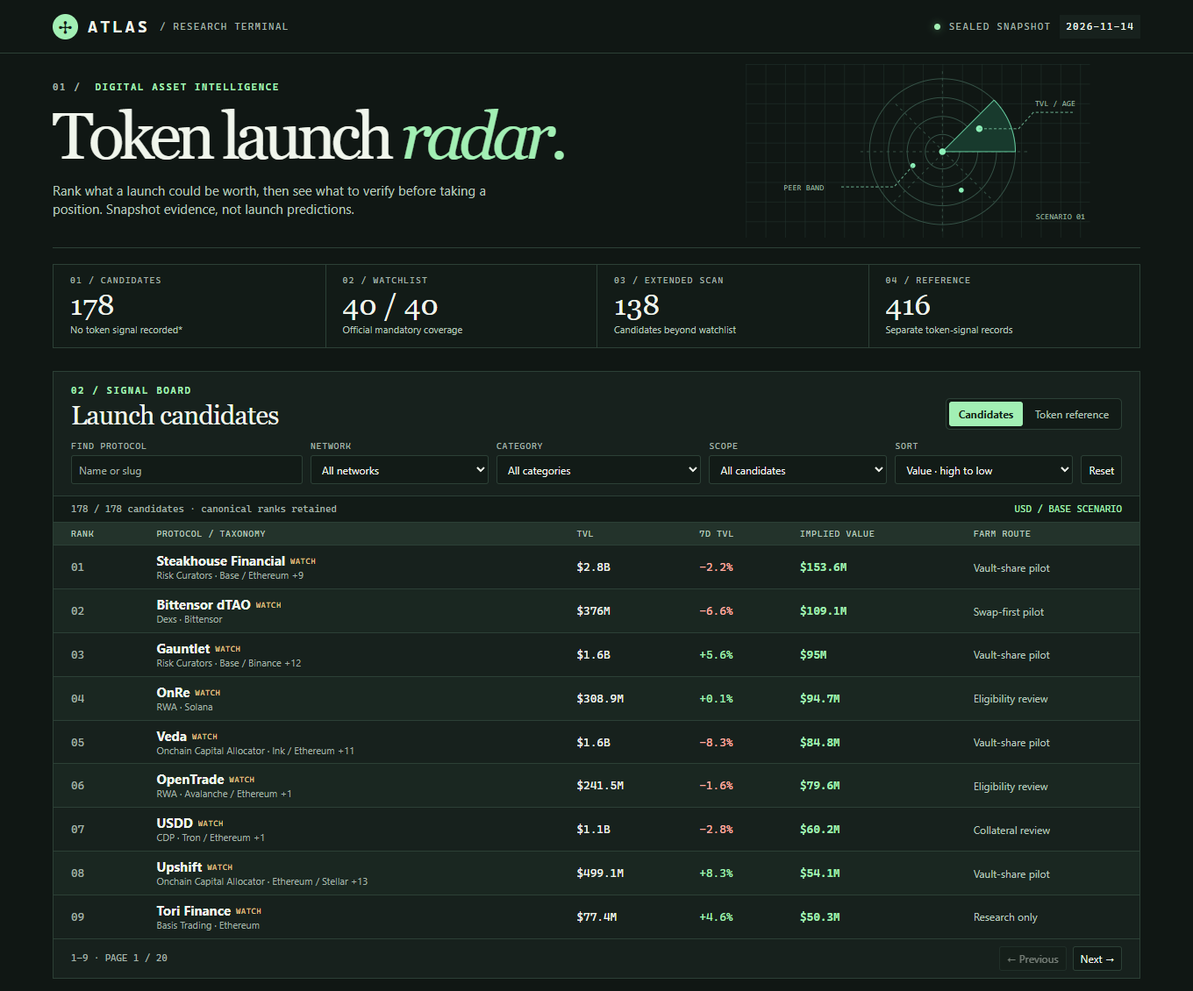
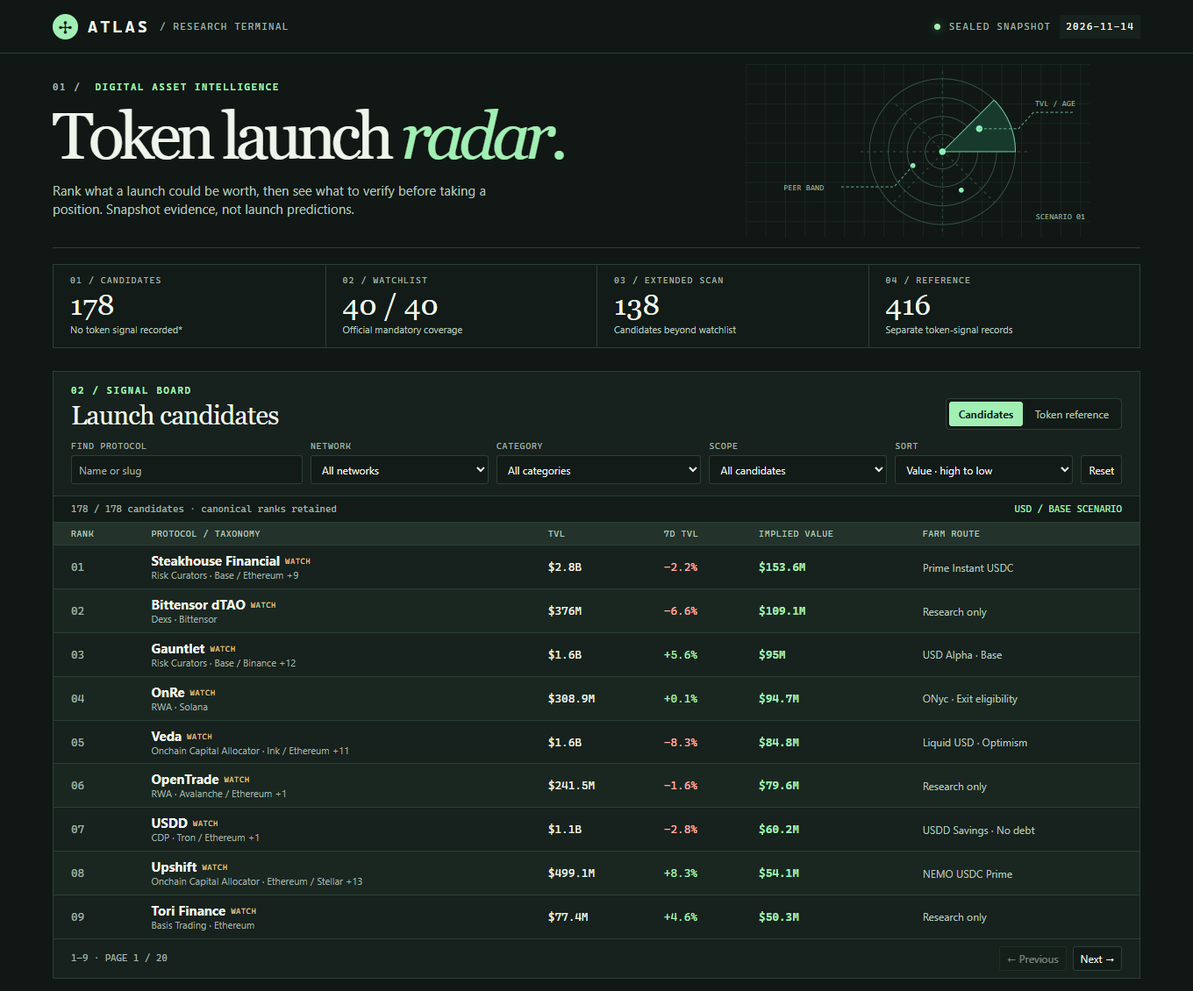
IMP token-radar-01
Archive improved farming routes and valuation details

diff --git a/token-radar-01/lib/farm.ts b/token-radar-01/lib/farm.ts
@@ -1,39 +1,41 @@
-type Route = Readonly<{ label: string; action: string; exit: string; days: string; cap: string }>;
+import { documentedRoutes, type DocumentedRoute } from './routes.ts';
+
+type Route = Readonly<{ label: string; action: string; exit: string }>;
 
 const lending: Route = {
-  label: 'Supply-only pilot', cap: '$10–25', days: '2–7 days',
-  action: 'Choose a documented single-asset supply market. Check utilization, oracle, and pause controls. Supply only; do not borrow or enable collateral.',
-  exit: 'Check available liquidity and withdraw. If utilization or withdrawal latency rises, do not add funds.',
+  label: 'Supply-only review',
+  action: 'Identify the documented single-asset market, oracle, utilization and pause controls. Preview supply without borrowing or enabling collateral.',
+  exit: 'Confirm that the documented pool would allow full withdrawal at current idle liquidity and list any conditions that block it.',
 };
 const vault: Route = {
-  label: 'Vault-share pilot', cap: '$10–25', days: '3–7 days',
-  action: 'Find a documented public vault for an asset you already hold. Check allocator/curator access, share pricing, caps, fees, and underlying strategies before minting a small share position.',
-  exit: 'Try redeeming shares at the next permitted window; stop if liquidity, share pricing or redemption timing diverges from the published terms.',
+  label: 'Vault-share review',
+  action: 'Confirm whether a documented public vault exists. Compare share pricing, allocations, fee disclosures and the underlying asset.',
+  exit: 'Compare the full-redemption preview with share value and note any queues, cooldowns, fees or unavailable routes.',
 };
 const swap: Route = {
-  label: 'Swap-first pilot', cap: '$5–15', days: '1–3 days',
-  action: 'Compare a small spot swap against an independent quote. Check slippage and the token mint on both sides; make one useful swap only. Add no liquidity unless documented eligibility and impermanent-loss exposure have been assessed.',
-  exit: 'Compare realized price and fees with the quote; avoid repeat volume and do not leave unwanted inventory.',
+  label: 'Spot and liquidity review',
+  action: 'Confirm whether the official venue supports a spot quote, and verify both asset IDs. Compare price impact and fees for the intended size; do not execute.',
+  exit: 'Preview the reverse quote and record total fees and price impact. For an LP route, additionally check the rule for removing liquidity.',
 };
 const debt: Route = {
-  label: 'Collateral review', cap: '$0', days: 'No hold',
-  action: 'Research only: compare the collateral list, oracle, peg history and liquidation ratio. Model a 30% collateral drawdown before considering any position; do not open debt to farm.',
-  exit: 'Save the official eligibility and redemption references if available; otherwise mark the route unverified and move on.',
+  label: 'Collateral review',
+  action: 'Compare the collateral list, oracle, peg history and liquidation ratio. Model a 30% collateral drawdown without opening debt.',
+  exit: 'Find the official debt repayment and collateral release path. Record when it can fail; do not fund it.',
 };
 const restake: Route = {
-  label: 'Exit and slashing review', cap: '$0', days: 'No hold',
-  action: 'Research only: verify the security module, slashable conditions, withdrawal queue and custody. Do not move staked assets for an unconfirmed program.',
-  exit: 'Archive the published unbonding and slashing terms before revisiting; no deposit is needed for the audit.',
+  label: 'Slashing review',
+  action: 'Verify the security module, slashable conditions, custody and the withdrawal queue; do not move staked assets.',
+  exit: 'Archive the documented unbonding and slashing terms before revisiting.',
 };
 const rwa: Route = {
-  label: 'Eligibility review', cap: '$0', days: 'No hold',
-  action: 'Research only: check jurisdiction, allowlist, issuer, minimums and redemption windows from official disclosures. Do not upload identity documents or transact solely for speculative rewards.',
-  exit: 'Record who can redeem and when, including fees and notice periods; stop if those terms cannot be verified.',
+  label: 'Eligibility review',
+  action: 'Check jurisdiction, allowlist, issuer, minimums and redemption windows. Do not upload identity documents during the comparison.',
+  exit: 'Record who may redeem, in what asset, with which fees and notice periods.',
 };
 const defaultRoute: Route = {
-  label: 'Research only', cap: '$0', days: 'No hold',
-  action: 'Research only: identify the protocol’s actual user action from its official product and governance pages. The snapshot alone cannot establish a safe or eligible transaction.',
-  exit: 'Set a reminder to recheck official documentation or governance. Stop if only third-party reward claims exist.',
+  label: 'Product review',
+  action: 'Identify the actual user action in the project’s product and governance docs; the snapshot cannot establish an eligible interaction.',
+  exit: 'Stop if the product or exit has no published documentation or only third-party reward claims exist.',
 };
 const routes = new Map(Object.entries({
   Lending: lending, 'Uncollateralized Lending': defaultRoute, Dexs: swap,
@@ -41,20 +43,39 @@ const routes = new Map(Object.entries({
   'Yield Aggregator': vault, Yield: vault, CDP: debt, 'CDP Manager': debt,
   Restaking: restake, 'Collateral Markets': restake, 'Staking Pool': restake, RWA: rwa, CeDeFi: rwa,
 }));
-const lowFee = new Set(['Base', 'Arbitrum', 'Optimism', 'Polygon', 'Solana', 'Sui', 'Monad', 'Unichain']);
-
-export function farmPlan(protocol: { name: string; category: string | null; chains: string[] }) {
-  const route = routes.get(protocol.category ?? '') ?? defaultRoute;
-  const chain = protocol.chains.find(item => lowFee.has(item)) ?? protocol.chains[0];
-  const network = chain ? `on ${chain}, only if officially supported` : 'on a network listed by the official app';
-  const pilot = route.cap !== '$0';
-  const fee = !pilot ? '$0' : chain && lowFee.has(chain) ? '$0.05–2' : '$2–15';
-  const minutes = pilot ? '20–35 min' : '12–20 min';
+function documentedPlan(route: DocumentedRoute) {
+  const pilot = !route.research;
+  const feeCap = route.chain === 'Ethereum' ? '$5' : '$2';
+  const estimate = pilot ? '25–44 min' : '18–28 min';
+  const quote = pilot
+    ? `Add quoted gas, approvals, any request or claim transaction and product fees. Skip above ${feeCap} total; this is a budget ceiling, not a gas estimate.`
+    : 'Public documentation checks only; no wallet signature, capital or fee.';
   const steps = [
-    `01 · Verify / 5–8 min / $0 — Find ${protocol.name} through its published docs. Match chain ID and contract or mint with the explorer; read audit scope and admin controls. No signature required.`,
-    `02 · Decide / 5–8 min / $0 — Check official eligibility, terms and any explicit qualifying actions ${network}. No reward is assumed. If evidence is absent, contradictory or restricted, use only the research route.`,
-    `03 · ${route.label} / ${pilot ? '6–12 min if eligible' : '3–5 min'} — ${route.action} ${pilot ? `Illustrative exposure ${route.cap}; estimated network fees ${fee} round trip, excluding bridging, slippage and venue fees. Check the live quote first.` : '$0 capital and fees.'}`,
-    `04 · Close / 3–7 min / ${route.days} review window — ${route.exit} Keep the transaction record if any, and remove any unneeded allowance. Review window is not an eligibility requirement.`,
+    `01 · Verify / ${pilot ? '6–10' : '5–8'} min / $0 — ${route.verify} Deployment and user eligibility must be rechecked. No reward is verified.`,
+    `02 · Budget & exit check / ${pilot ? '6–10' : '5–8'} min / $0 — ${route.quote} ${quote}`,
+    `03 · ${pilot ? 'One conditional pilot / 6–12 min' : 'Research only / 4–6 min / $0'} — ${route.action}${pilot ? ' Illustrative exposure cap: $25, using an asset already on that chain. If the live minimum is higher or the round-trip quote is incomplete, do not sign.' : ''}`,
+    `04 · ${pilot ? 'Redeem & reconcile / 7–12 min active' : 'Record & stop / 4–6 min / $0'} — ${route.exit}${pilot ? ' Include exit fees in the same round-trip budget; active time estimates exclude settlement.' : ''}`,
   ];
-  return { label: route.label, capital: route.cap, fee, minutes, window: route.days, steps };
+  return {
+    kind: 'documented' as const, label: route.label, capital: pilot ? '$25 cap' : '$0',
+    fee: pilot ? `${feeCap} fee cap` : '$0', minutes: estimate, window: route.liquidity,
+    sources: route.sources, steps,
+  };
+}
+
+export function farmPlan(protocol: { slug: string; name: string; category: string | null; chains: string[] }) {
+  const named = documentedRoutes.get(protocol.slug);
+  if (named && protocol.chains.includes(named.chain)) return documentedPlan(named);
+  const route = routes.get(protocol.category ?? '') ?? defaultRoute;
+  const network = protocol.chains.slice(0, 2).join(' / ') || 'network not reported';
+  const steps = [
+    `01 · Identify / 5–8 min / $0 — Locate the official docs for ${protocol.name}; compare the documented deployment with the snapshot (${network}). Resolve any address or chain mismatch before continuing.`,
+    '02 · Verify eligibility / 5–8 min / $0 — Check official terms, activity criteria and any verified campaign. Do not sign. No reward is verified and a snapshot category is not a product guide.',
+    `03 · Rehearse ${route.label.toLowerCase()} / 4–7 min / $0 — Research only: ${route.action} Treat any suggested action as a read-only checklist or preview, not a live order.`,
+    `04 · Rehearse exit / 4–7 min / $0 — ${route.exit} Record a deposit minimum, full exit path and round-trip quote if these are public. If any are missing, retain the research-only status.`,
+  ];
+  return {
+    kind: 'research' as const, label: 'Research only', capital: '$0', fee: '$0', minutes: '18–30 min',
+    window: 'No settlement; no transaction', sources: [], steps,
+  };
 }

diff --git a/token-radar-01/lib/routes.ts b/token-radar-01/lib/routes.ts
@@ -1,0 +1,101 @@
+type Source = Readonly<{ title: string; url: string }>;
+export type DocumentedRoute = Readonly<{
+  label: string; chain: string; liquidity: string; sources: readonly Source[];
+  verify: string; quote: string; action: string; exit: string; research?: true;
+}>;
+
+// Official documents establish product mechanics, not a current quote, eligible wallet or verified reward.
+export const documentedRoutes: ReadonlyMap<string, DocumentedRoute> = new Map(Object.entries({
+  'steakhouse-financial': {
+    label: 'Prime Instant USDC', chain: 'Base', liquidity: 'Liquidity-dependent exit',
+    sources: [
+      { title: 'Steakhouse · Prime Instant product and deployments', url: 'https://www.steakhouse.financial/docs/products/vault-products/current/prime-instant' },
+    ],
+    verify: 'Open the documented Steakhouse Prime Instant USDC Base Morpho V2 vault, not the Ethereum vault or the separate Coinbase product. Match the vault and underlying USDC on Base.',
+    quote: 'Check deposit capacity, available withdrawal liquidity, and preview approval, deposit and redemption. Do not bridge to do this pilot.',
+    action: 'If the route and costs pass, deposit only USDC already on Base. Record the vault shares received and the USDC redemption preview.',
+    exit: 'Preview a full withdrawal; do not assume “Instant” is guaranteed. If liquidity is inadequate or the preview fails, stop adding funds and recheck availability.',
+  },
+  gauntlet: {
+    label: 'USD Alpha · Base', chain: 'Base', liquidity: '6–12 hours on average for redemption; not guaranteed',
+    sources: [
+      { title: 'Gauntlet · How to Supply', url: 'https://vaultbook.gauntlet.xyz/vaults/gauntlet-usd-alpha-vault/how-to-supply' },
+      { title: 'Gauntlet · Async integration', url: 'https://vaultbook.gauntlet.xyz/vaults/gauntlet-usd-alpha-vault/how-to-integrate-with-gauntlet-usd-alpha' },
+    ],
+    verify: 'Find Gauntlet USD Alpha (gtUSDa), select Base and match the USDC asset and deposit router in the official flow.',
+    quote: 'Preview the full deposit and redemption request costs, including approval if needed. Verify that an asynchronous exit is acceptable and that the vault accepts the pilot size.',
+    action: 'Submit one approved USDC deposit request only if the checks pass. It is asynchronous: wait for gtUSDa in the wallet; do not submit a duplicate if the request is pending.',
+    exit: 'Request USDC redemption and track the request until the wallet receives USDC. The supply guide reports 6–12 hours on average, not an SLA. No second deposit before settlement.',
+  },
+  veda: {
+    label: 'Liquid USD · Optimism', chain: 'Optimism', liquidity: 'Estimated up to 3 days for withdrawal; not guaranteed',
+    sources: [
+      { title: 'Veda · ether.fi integration', url: 'https://veda.tech/customer/etherfi' },
+      { title: 'ether.fi · Liquid USD vault', url: 'https://etherfi.gitbook.io/etherfi/products/liquid/live-vaults/liquid-usd-vault' },
+      { title: 'ether.fi · Withdrawal timelines', url: 'https://help.ether.fi/en/articles/269720-typical-liquid-withdrawal-timelines' },
+    ],
+    verify: 'Use the ether.fi Liquid USD vault powered by Veda, not Liquid ETH. Select Optimism and verify the vault and USDC deposit option in the current app.',
+    quote: 'Preview receipt shares, queue redemption and any network or vault fees. Skip if the active route requires bridging or the minimum exceeds your cap.',
+    action: 'If within budget, submit one USDC deposit and record shares. Use the same vault and chain for the exit; do not treat the receipt as instantly redeemable.',
+    exit: 'Use the published Liquid withdrawal queue. The operator estimates up to 3 days for Liquid USD; confirm current terms and track the request separately from active task time.',
+  },
+  upshift: {
+    label: 'NEMO USDC Prime', chain: 'Ethereum', liquidity: 'Standard exit within 30 days per vault page; recheck terms',
+    sources: [
+      { title: 'Upshift · NEMO USDC Prime', url: 'https://app.upshift.finance/vaults/ethereum/nemo-usdc-prime' },
+      { title: 'Upshift · Request and claim flow', url: 'https://docs.upshift.finance/sdk/quick-start' },
+    ],
+    verify: 'Find NEMO USDC Prime on Ethereum (USDC in, nUSDC shares). Do not substitute the distinct upUSDC product from the SDK walkthrough.',
+    quote: 'Choose the standard withdrawal path and check the deposit minimum and round-trip Ethereum gas. The vault page lists zero standard withdrawal fee, not zero gas; instant withdrawal can charge a fee.',
+    action: 'If the live checks pass and you accept the long exit window, make one USDC deposit and record nUSDC shares. Otherwise remain in research mode.',
+    exit: 'Submit a standard redemption and follow the vault’s claim instructions. The vault page states processing within 30 days; do not rely on the separate instant exit.',
+  },
+  curvance: {
+    label: 'Monad · Supply only', chain: 'Monad', liquidity: 'Idle pool liquidity required to exit',
+    sources: [
+      { title: 'Curvance · Monad addresses', url: 'https://docs.curvance.com/app/protocol-overview/monad-contract-addresses.md' },
+      { title: 'Curvance · Lend assets', url: 'https://docs.curvance.com/app/developer-docs/quick-start-guides/loans-and-collateral/lend-assets.md' },
+      { title: 'Curvance · Withdraw', url: 'https://docs.curvance.com/app/developer-docs/quick-start-guides/loans-and-collateral/withdraw.md' },
+    ],
+    verify: 'Select Monad mainnet and match the isolated lending market and cToken to the official address registry. Use only an underlying asset you already hold.',
+    quote: 'Inspect idle market liquidity, supply limits and pause state, then preview a deposit and full redemption with gas. Do not borrow or enable collateral.',
+    action: 'Use plain supply to receive cToken shares in the matching market; do not take the collateral or Earn Vault route. Record share balance and redemption preview.',
+    exit: 'Redeem cToken shares back to underlying. A paused market or insufficient idle cash can block the exit; if so, do not add funds and recheck market status.',
+  },
+  tydro: {
+    label: 'Ink · Supply only', chain: 'Ink', liquidity: 'No supply lockup; idle pool liquidity required',
+    sources: [
+      { title: 'Tydro · Protocol overview', url: 'https://docs.tydro.com/i.-introduction/overview.md' },
+      { title: 'Tydro · Pool contract', url: 'https://docs.tydro.com/vii.-developers/developer-overview/smart-contracts/pool.md' },
+      { title: 'Tydro · Withdraw', url: 'https://docs.tydro.com/iii.-using-tydro/repay-loans-and-withdraw.md' },
+    ],
+    verify: 'Select Ink and a supported reserve in Tydro’s public lending market. Do not use the separate permissioned market; match the underlying and pool addresses.',
+    quote: 'Read utilization, available liquidity and reserve status before previewing supply and full withdrawal. Price the required approval and any extra collateral toggle; do not borrow.',
+    action: 'If the preview and reserve pass, supply the supported asset and record the aToken. Keep the position free of debt.',
+    exit: 'Withdraw the underlying against the aToken. There is no supply lockup, but withdrawal requires unborrowed liquidity. Defer entry if the full exit cannot be previewed.',
+  },
+  onre: {
+    label: 'ONyc · Exit eligibility', chain: 'Solana', liquidity: 'Redemption eligibility and liquidity must be verified', research: true,
+    sources: [
+      { title: 'OnRe · Access routes', url: 'https://docs.onre.finance/for-capital-providers/open-access-vs-institutional-access.md' },
+      { title: 'OnRe · Onchain redemptions', url: 'https://docs.onre.finance/for-capital-providers/redemptions-and-onchain-liquidity.md' },
+      { title: 'OnRe · FAQ and conditions', url: 'https://docs.onre.finance/technical-resources/frequently-asked-questions.md' },
+    ],
+    verify: 'Find ONyc on Solana in OnRe’s official docs. It is reinsurance exposure, not a stablecoin. Check which access route applies and whether your jurisdiction is allowed.',
+    quote: 'Separate ability to acquire ONyc from eligibility to redeem. Confirm whether your wallet would be verified for primary redemption and obtain the current minimum, quote currency and fees from the operator.',
+    action: 'Reconcile the onchain redemption page’s USDG route with the FAQ before relying on any timing or conversion. Write down the default exit and the fallback if liquidity is thin; do not mint or buy.',
+    exit: 'If eligibility, timing or liquidity remains unverified, stop. Record the operator’s dated confirmation before reconsidering; no position is opened in this route.',
+  },
+  usdd: {
+    label: 'USDD Savings · No debt', chain: 'Ethereum', liquidity: 'No documented Savings lockup; check exit preview',
+    sources: [
+      { title: 'USDD · Savings', url: 'https://docs.usdd.io/user-guide/usdd-savings.md' },
+      { title: 'USDD · Deployments', url: 'https://docs.usdd.io/developers/deployment-addresses.md' },
+      { title: 'USDD · Frontend terms', url: 'https://docs.usdd.io/legals/terms-of-use.md' },
+    ],
+    verify: 'Use USDD Savings on Ethereum, not TRON’s collateral Vault or PSM. Confirm the Savings and USDD addresses and frontend eligibility. USDD is the existing stablecoin product, not a modeled launch.',
+    quote: 'Review peg risk and preview both directions, including Ethereum gas and approvals. Only consider Savings if you already hold USDD on Ethereum and the approved cap is viable.',
+    action: 'If the checks pass, deposit USDD into Savings and record the sUSDD receipt and exchange preview. Do not mint USDD against collateral or open debt for this workflow.',
+    exit: 'Use Savings to redeem sUSDD for USDD; the guide states no lockup. Recheck preview and peg before entry; recovering USDD is not the same as exiting into dollars.',
+  },
+} satisfies Record<string, DocumentedRoute>));

diff --git a/token-radar-01/dashboard/app.js b/token-radar-01/dashboard/app.js
@@ -108,24 +108,56 @@
       $board.replaceChildren(nodes(node('tr'), message));
     }
     function pair(term, value) { return nodes(node('div'), node('dt', '', term), node('dd', '', value)); }
+    function sensitivityPanel(p) {
+      const s = p.model.sensitivity;
+      const shock = Math.round(s.shock * 100);
+      const change = value => (value - p.implied_value_usd) / p.implied_value_usd * 100;
+      const line = (label, value) => {
+        const item = pair(label, `${short(value)} · ${percentage(change(value))}`);
+        item.querySelector('dd').title = usd.format(value);
+        return item;
+      };
+      return nodes(node('section', 'stress'), node('h4', '', 'Sensitivity · one input at a time'),
+        nodes(node('dl', 'inputs'), line(`Peer multiple −${shock}%`, s.multipleDown),
+          line(`Peer multiple +${shock}%`, s.multipleUp), line('Flat 7d momentum', s.flatMomentum), line('Neutral age factor', s.neutralAge)),
+        node('p', 'aside-note', 'Changes are relative to base. Other inputs stay fixed; stress cases do not change board rank.'));
+    }
+    function peerDisclosure(m) {
+      const detail = nodes(node('details', 'evidence'), node('summary', '', `Inspect ${m.peerCount} priced peers · ${m.scope}`));
+      if (!m.peers.length) return nodes(detail, node('p', 'aside-note', 'No qualifying cohort. A stated 0.35× fallback is used.'));
+      const notes = node('p', 'aside-note', 'Ratios below are the model inputs, clipped to 0.05–3×.');
+      return nodes(detail, notes, nodes(node('ul', 'peer-list'), ...m.peers.map(peer => {
+        const item = nodes(node('li'), node('span', '', peer.name), node('code', '', `${peer.ratio.toFixed(3)}×`));
+        item.title = peer.slug;
+        return item;
+      })));
+    }
     function estimate(p) {
       const m = p.model;
       const scenarios = nodes(node('dl', 'scenarios'), pair('Low', short(p.low)), pair('Base', short(p.implied_value_usd)), pair('High', short(p.high)));
       scenarios.querySelectorAll('dd')[1].title = usd.format(p.implied_value_usd);
       const inputs = nodes(node('dl', 'inputs'), pair('Snapshot TVL', usd.format(p.tvl_usd)),
-        pair('Peer proxy', `${m.multiple.toFixed(2)}× · ${m.peerCount} peers`), pair('Peer cohort', m.scope),
+        pair('Peer proxy', `${m.multiple.toFixed(3)}× · ${m.peerCount} peers`),
         pair('7d momentum', `${percentage(p.change_7d)} → ${m.growth.toFixed(2)}×`),
-        pair('Time tracked', `${m.listingDays == null ? '—' : `${m.listingDays}d`} → ${m.age.toFixed(2)}×`), pair('Model evidence', m.evidence));
-      return nodes(node('section', 'card'), node('p', 'eyebrow', '01 / IMPLIED USD'), node('h3', '', 'Launch scenario'), scenarios, inputs,
-        node('p', 'aside-note', 'Scenario estimate, not a traded price, launch probability, or expected reward. The peer median uses reported market cap as a proxy.'));
+        pair('Time tracked', `${m.listingDays == null ? '—' : `${m.listingDays}d`} → ${m.age.toFixed(3)}×`), pair('Peer fit', m.evidence));
+      return nodes(node('section', 'card'), node('p', 'eyebrow', '01 / IMPLIED USD'), node('h3', '', 'Launch scenario'), scenarios,
+        node('p', 'formula', 'TVL × peer median × momentum × age'), inputs, sensitivityPanel(p), peerDisclosure(m),
+        node('p', 'aside-note', 'The low/high band is a peer-derived scenario, not a confidence interval. The base is not a traded price, FDV or launch probability.'));
     }
     function workflow(p) {
       const steps = p.farm_steps.map(step => {
         const delimiter = step.indexOf(' — ');
         return nodes(node('li'), node('strong', '', step.slice(0, delimiter)), node('span', '', step.slice(delimiter + 3)));
       });
-      return nodes(node('section', 'card'), node('p', 'eyebrow', '02 / FARM WORKFLOW'), node('h3', '', p.plan.label),
-        node('p', 'cost', `Illustrative · ${p.plan.capital} exposure · ${p.plan.fee} network fees · ${p.plan.minutes} active`), nodes(node('ol', 'steps'), ...steps));
+      const plan = p.plan;
+      const documented = plan.kind === 'documented';
+      const section = nodes(node('section', 'card'), node('p', 'eyebrow', `02 / ${documented ? 'DOCUMENTED PRODUCT' : 'UNVERIFIED PRODUCT'}`),
+        node('h3', '', plan.label), nodes(node('dl', 'plan-facts'), pair('Exposure', plan.capital), pair('Round-trip fees', plan.fee), pair('Active time*', plan.minutes)),
+        node('p', 'cost', `Exit: ${plan.window}`), nodes(node('ol', 'steps'), ...steps),
+        node('p', 'aside-note', '*Active time is an estimate. Product documentation is not a live quote or proof of rewards.'));
+      if (!documented) return section;
+      const sources = plan.sources.map(source => nodes(node('li'), node('strong', '', source.title), node('code', '', source.url)));
+      return nodes(section, nodes(node('details', 'evidence'), node('summary', '', `Official sources · ${sources.length}`), nodes(node('ul', 'source-list'), ...sources)));
     }
     function openDetail(p) {
       const heading = node('h2', 'detail-heading', p.name);

diff --git a/token-radar-01/lib/model.ts b/token-radar-01/lib/model.ts
@@ -62,14 +62,30 @@ function peerBand(p: Protocol, peers: Protocol[]) {
     { scope: 'All priced peers', set: peers },
   ];
   const cohort = pools.find(x => x.set.length >= MIN_PEERS);
-  if (!cohort) return { scope: 'Assumption', peerCount: 0, multiple: DEFAULT_MULTIPLE, lowFactor: 0.45, highFactor: 2.15 };
-  const ratios = cohort.set.map(x => clamp(x.mcap_usd! / x.tvl_usd, 0.05, 3)).sort((a, b) => a - b);
+  if (!cohort) return { scope: 'Assumption', peerCount: 0, multiple: DEFAULT_MULTIPLE, lowFactor: 0.45, highFactor: 2.15, peers: [] };
+  const evidence = cohort.set.map(x => ({
+    slug: x.slug, name: x.name, ratio: clamp(x.mcap_usd! / x.tvl_usd, 0.05, 3),
+  })).toSorted((a, b) => a.ratio - b.ratio || order(a.slug, b.slug));
+  const ratios = evidence.map(x => x.ratio);
   const multiple = quantile(ratios, 0.5);
   const tight = cohort.scope === 'Category + size';
   return {
-    scope: cohort.scope, peerCount: ratios.length, multiple,
+    scope: cohort.scope, peerCount: ratios.length, multiple, peers: evidence,
     lowFactor: clamp(quantile(ratios, 0.25) / multiple, 0.35, tight ? 0.82 : 0.68),
     highFactor: clamp(quantile(ratios, 0.75) / multiple, tight ? 1.18 : 1.45, 2.6),
+  };
+}
+
+const quote = (value: number) => clamp(Math.round(value), 1, MAX_VALUE);
+
+function sensitivities(tvl: number, multiple: number, growth: number, age: number) {
+  const shock = 0.2;
+  return {
+    shock,
+    multipleDown: quote(tvl * (multiple * (1 - shock)) * growth * age),
+    multipleUp: quote(tvl * (multiple * (1 + shock)) * growth * age),
+    flatMomentum: quote(tvl * multiple * age),
+    neutralAge: quote(tvl * multiple * growth),
   };
 }
 
@@ -79,15 +95,15 @@ function score(p: Protocol, peers: Protocol[], asOf: string) {
   const growth = p.change_7d === null ? 1 : 1 + clamp(p.change_7d, -35, 35) / 100;
   const age = listingDays === null ? 1 : 0.88 + 0.35 * Math.min(listingDays, 730) / 730;
   const raw = p.tvl_usd * band.multiple * growth * age;
-  const value = clamp(Math.round(raw), 1, MAX_VALUE);
+  const value = quote(raw);
   const uncertainty = p.change_7d === null || listingDays === null ? 1.18 : 1;
   const evidence = band.scope === 'Category + size' && band.peerCount >= 8 && uncertainty === 1 ? 'Stronger'
     : band.peerCount >= MIN_PEERS && uncertainty === 1 ? 'Moderate' : 'Limited';
   return {
     implied_value_usd: value,
-    low: Math.min(value, clamp(Math.round(raw * band.lowFactor / uncertainty), 1, MAX_VALUE)),
-    high: Math.max(value, clamp(Math.round(raw * band.highFactor * uncertainty), 1, MAX_VALUE)),
-    model: { ...band, listingDays, growth, age, evidence },
+    low: Math.min(value, quote(raw * band.lowFactor / uncertainty)),
+    high: Math.max(value, quote(raw * band.highFactor * uncertainty)),
+    model: { ...band, listingDays, growth, age, evidence, sensitivity: sensitivities(p.tvl_usd, band.multiple, growth, age) },
   };
 }
 

diff --git a/token-radar-01/dashboard/index.html b/token-radar-01/dashboard/index.html
@@ -67,7 +67,7 @@
     <details class="methods">
       <summary>03 / Methodology &amp; evidence limits</summary>
       <p><strong>Base = TVL × proxy median × momentum × tracking age.</strong> The multiple is the median reported market cap / TVL (ratios clipped to 0.05–3×) of at least five priced snapshot peers. Cohorts: same category and within 5× TVL, category, size, then all priced peers; default 0.35×. These are capitalization proxies, not observed FDVs. Momentum is 1 + 7-day TVL change clipped to ±35%; age scales 0.88–1.23× over the first two years tracked. Missing inputs are neutral and widen the band. The low/high scenarios use adjusted cohort quartiles; they are not statistical confidence bounds.</p>
-      <p>*The official watchlist is always included. Extended candidates are below the watchlist floor and exclude recorded token signals and obvious derivative patterns. Parent relationships are not exposed in the snapshot. A missing record does not prove a token is absent; a recorded symbol does not prove liquid trading. “Stronger” describes peer fit and available data, not launch odds. Farm routes are conditional and fees are illustrative, not quotes. No points or rewards are verified here.</p>
+      <p>*The official watchlist is always included. Extended candidates are below the watchlist floor and exclude recorded token signals and obvious derivative patterns. A missing record does not prove a token is absent. “Stronger” describes peer fit and available data, not launch odds. Named routes cite official product docs; other routes are research only. Fee caps are stop rules, not quotes. No rewards are verified.</p>
       <p id="source"></p>
     </details>
     <footer><span>ATLAS / FIELD NOTES</span><span>OFFLINE EDITION · NOT FINANCIAL ADVICE</span></footer>

diff --git a/token-radar-01/dashboard/app.css b/token-radar-01/dashboard/app.css
@@ -101,6 +101,21 @@ dialog::backdrop { background: #07110de0; }
 .steps { list-style: none; padding: 0; margin: 0; }
 .steps li { border-top: 1px solid var(--line); padding: 8px 0; font-size: 12px; color: var(--soft); }
 .steps strong { display: block; color: var(--signal); font: 11px/1.4 var(--mono); margin-bottom: 3px; }
+.formula { margin: 0 0 8px; color: var(--signal); font: 11px/1.4 var(--mono); }
+.stress { margin: 12px 0 0; padding: 9px; border: 1px solid var(--line); background: var(--sheet); }
+.stress h4 { margin: 0 0 7px; color: var(--ink); font: 600 12px var(--sans); }
+.stress .aside-note { margin-top: 5px; }
+.evidence { margin-top: 10px; padding: 7px 0; border-top: 1px solid var(--line); }
+.evidence summary { color: var(--signal); font: 11px/1.4 var(--mono); cursor: pointer; }
+.peer-list, .source-list { margin: 9px 0 0; padding: 0; list-style: none; max-height: 165px; overflow: auto; }
+.peer-list li, .source-list li { border-bottom: 1px solid var(--line); padding: 4px 0; color: var(--soft); font-size: 12px; }
+.peer-list li { display: flex; justify-content: space-between; gap: 8px; }
+.peer-list code { color: var(--signal); white-space: nowrap; }
+.source-list code { display: block; overflow-wrap: anywhere; font-size: 10px; }
+.plan-facts { display: grid; grid-template-columns: repeat(3,minmax(0,1fr)); gap: 6px; margin: 0 0 8px; }
+.plan-facts div { border: 1px solid var(--line); padding: 5px 7px; }
+.plan-facts dt { color: var(--muted); font: 10px/1.3 var(--mono); }
+.plan-facts dd { margin: 3px 0 0; color: var(--ink); font: 700 12px/1.3 var(--mono); }
 @media (max-width: 850px) {
   .frame { width: calc(100% - 34px); }
   .hero { grid-template-columns: 1.3fr 1fr; }
